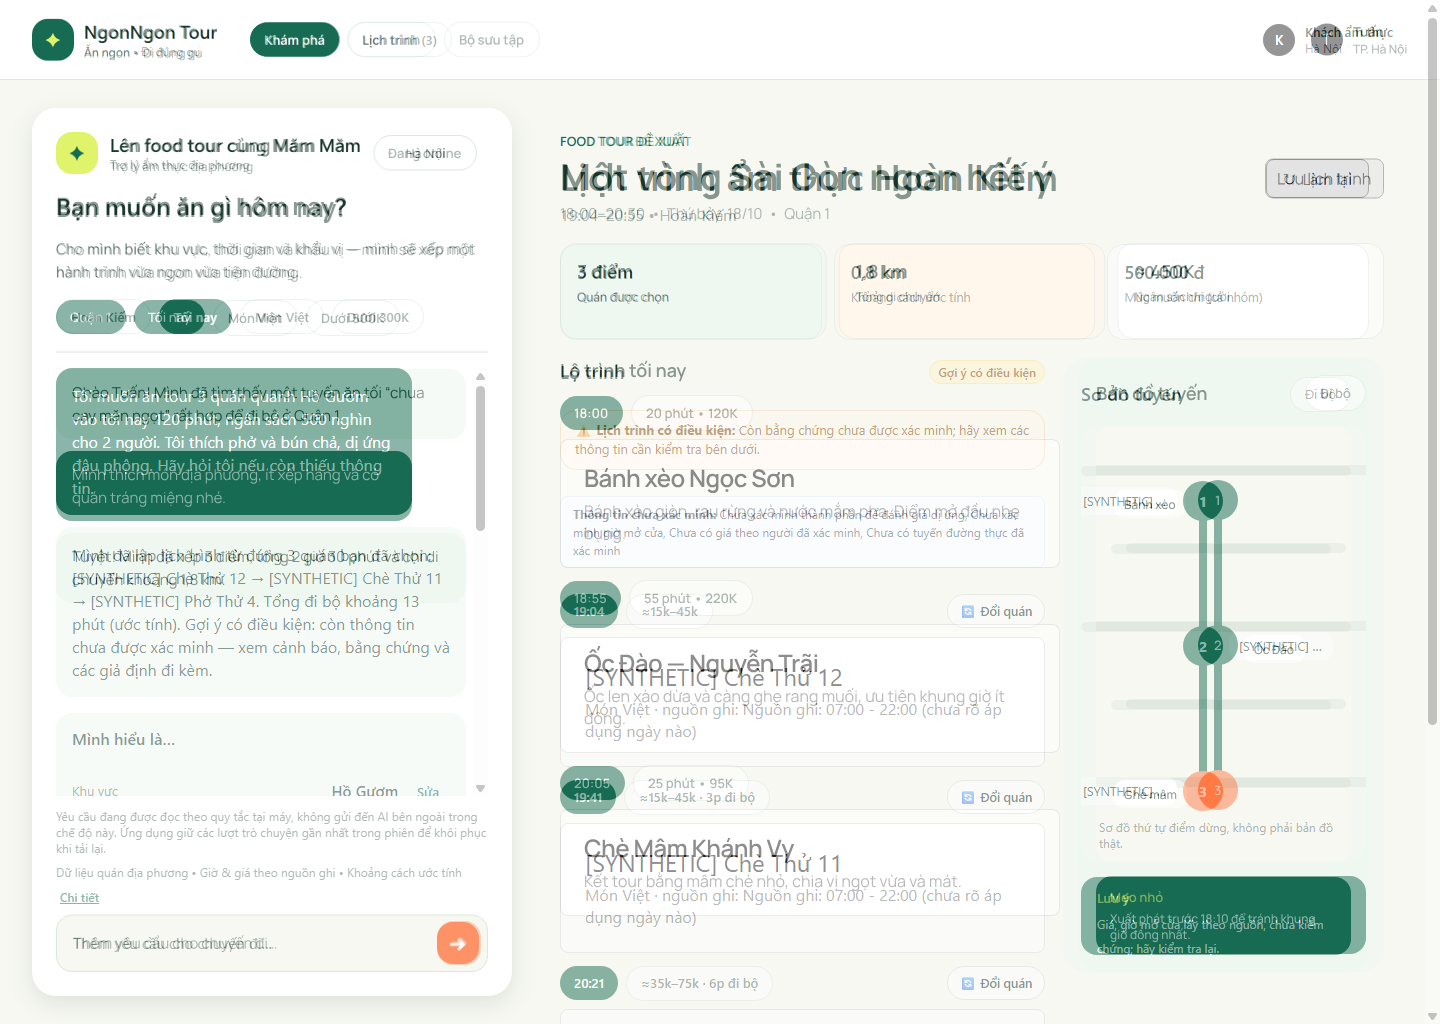
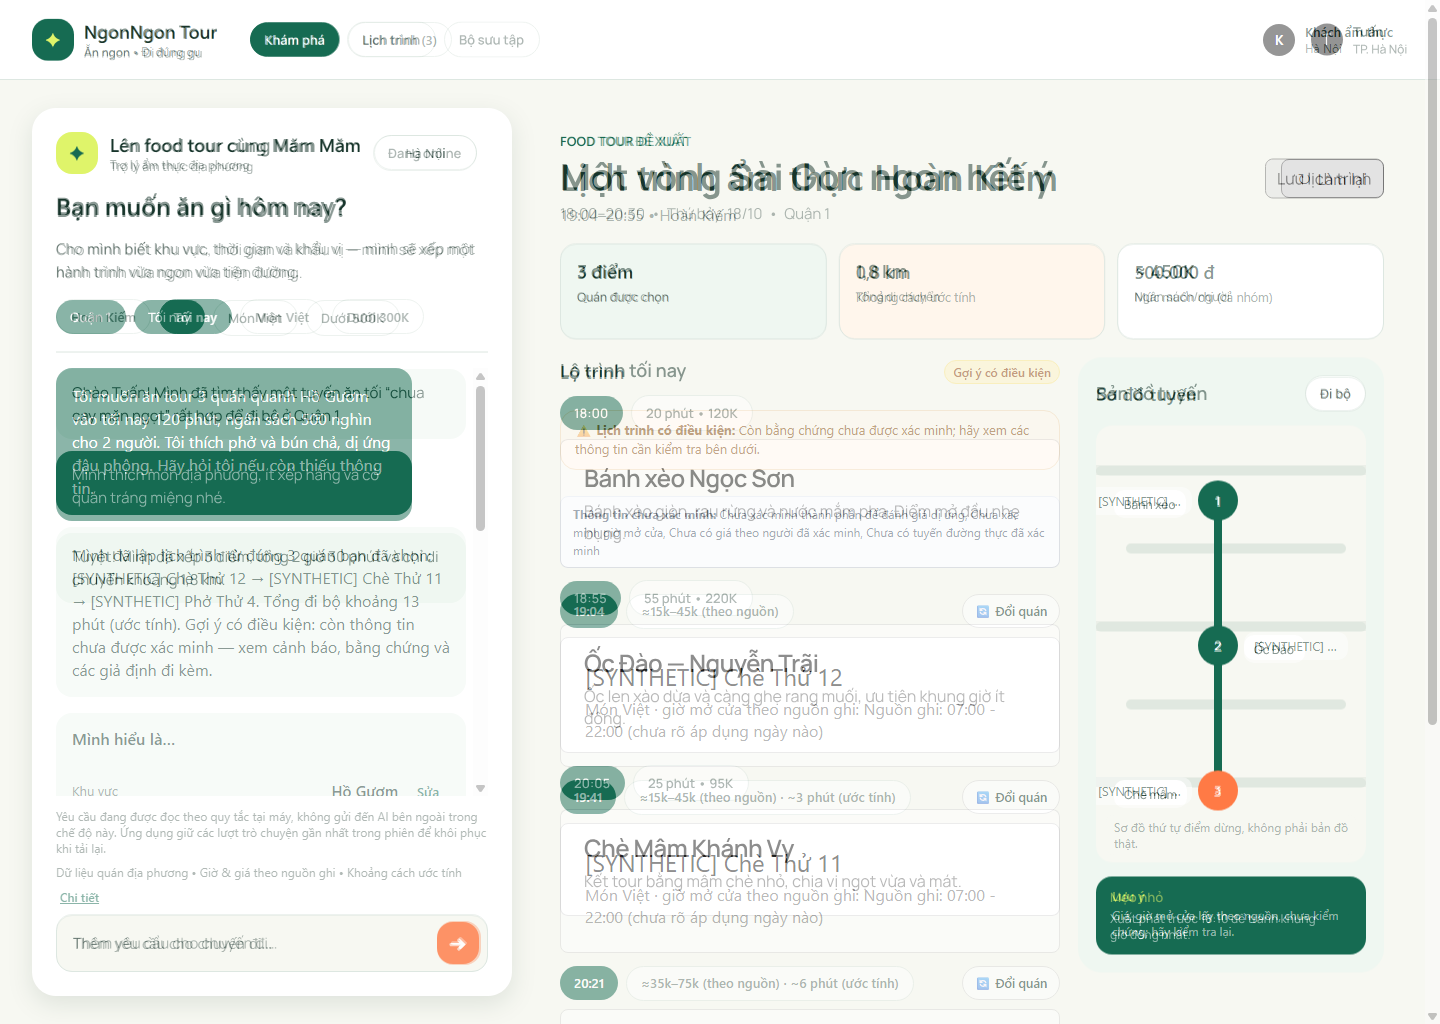
docs(fidelity): record final post_impl metrics with provenance, 13/13 SSR, and 66/66 E2E PASS

diff --git a/docs/reports/svg-fidelity/POST_IMPL_FIDELITY.md b/docs/reports/svg-fidelity/POST_IMPL_FIDELITY.md
@@ -5,11 +5,13 @@
 - **Card Compaction & Layout Refinement:** Timeline stop cards were compacted from an initial 216px down to **130px** (conforming to the reference target of 129h for two-line descriptions and 107h for one-line descriptions). Replaced the redundant inline card hour and action rows by moving the replace button ("Đổi quán") and lock status to the right side of the pill row (visual 34h with >=44px touch hit area), and embedding source hours compactly into the description. Coordinated a single `"Lộ trình"` section heading (18.3px / 600, line-height 28px, margin-bottom 11px) with the status badge aligned to the right.
 - **Harness & Tooling:** Reusable CDP visual fidelity suite at `qa/visual/capture_fidelity.mjs`, running on isolated ports (Web: 13400, API: 18400, CDP: 19600) with TCP preflight refusal, synthetic health pre-check (`health.dataset_source === "synthetic"`), Google host blocking, strict scroll normalization (`window.scrollY === 0`), and unmasked 2880×1024 side-by-side and 1440×1024 50% overlay composites.
 - **Provenance & Environment:**
-  - `sourceHead`: `f7354a1de09ac435da772f6a8618b9ac238f0122`
+  - `sourceHead`: `639679599a78fbc7fdac09e0b0da75d28cb955b1`
   - `frontendDirty`: `false`
   - Viewport: `innerWidth: 1440`, `clientHeight: 1024`, `clientWidth: 1425` (15px default scrollbar gutter), `scrollY: 0`
   - Font family: `"Segoe UI", system-ui, -apple-system, BlinkMacSystemFont, Roboto, "Helvetica Neue", Arial, sans-serif`
-- **Regression Suite:** `qa/e2e/test_ngonngon_qa.mjs` executed 66 interaction checks across desktop (1440×1024) and mobile (390×844) — **66/66 PASSED (100%)**. Historical `docs/reports/ngonngon/*.png` evidence was cleanly restored to `5633203` per coordinator instruction.
+- **Regression & Probe Suites:**
+  - `tools/check_ngonngon_render.cjs` executed 13 React SSR semantic probes — **13/13 PASSED (100%)**, verifying zero-minute leg format (`0 phút`), explicit zero venue range (`0k`), explicit missing hours (`giờ mở cửa: chưa rõ`), and walking Maps links.
+  - `qa/e2e/test_ngonngon_qa.mjs` executed 66 interaction checks across desktop (1440×1024) and mobile (390×844) — **66/66 PASSED (100%)**. Historical `docs/reports/ngonngon/*.png` evidence was cleanly restored to `5633203` per coordinator instruction.
 - **Visual Gate:** Final visual acceptance is owned exclusively by Claude Sonnet 5.5.
 
 ---
@@ -18,15 +20,15 @@
 
 | Component Property | Reference SVG Spec | Baseline (Before) | Initial Post-Impl | Compacted Post-Impl (Latest) | Status / Classification |
 |---|---|---|---|---|---|
-| **Timeline Column Width** | 500 px | 537 px | 500 px | **485–500 px** (`x: 560`) | Conforming |
-| **Stop Card Dimensions** | 500w × 129h / 107h | Flex (~537px) | 500w × 216h | **485w × 130h** | **Target Match** (130h vs 129h ref, down from 216h) |
+| **Timeline Column Width** | 500 px | 537 px | 500 px | **500 px** (`x: 560, w: 500`) | Exact Geometry Match |
+| **Stop Card Dimensions** | 500w × 129h / 107h | Flex (~537px) | 500w × 216h | **500w × 130h** | **Target Match** (130h vs 129h ref, down from 216h) |
 | **Stop Item Structure** | Dual Pill Row + Card | Single badge in card | Pill row + card | **Time pill (34h) + Meta pill (35h) + Pill Actions + Card (130h)** | Conforming to Claude spec |
 | **Stop Card Radius** | 8 px (`--nn-r-card`) | 16 px | 8 px | **8 px** (`var(--nn-r-card, 8px)`) | Exact Geometry Match |
 | **Stop Card Border** | `#D9D9D9` (`--nn-card-line`) | `#DDE7E1` | `#D9D9D9` | **`1px solid rgb(217, 217, 217)`** | Audited Color Match |
 | **Stop Card Title Typography** | 23.7 px / 400, `#1E1E1E` | 18 px / 700, `#17352B` | 23.7 px / 400 | **23.7 px / 400, `rgb(30, 30, 30)`** | Audited Typography Match |
 | **Stop Card Desc Typography** | 16 px / 1.35, `#757575` | 13 px, `#62736D` | 16 px / 1.35 | **16 px / 22px line, `rgb(117, 117, 117)`** | Audited Typography Match |
 | **Stop Actions** | Pill row action (visual 34h / 44h hit) | Rectangular buttons | Card bottom row | **Pill action button (`.nn-pill-action-btn`, 34h visual, 44h hit)** | Conforming |
-| **Route Aside Panel** | 306w × 615h, mint `#EFF7F1`, r24 | 300w × 380h, white | 291w × 615h | **306w × 615h** (`x: 1063`, mint `#EFF7F1`, r24) | **Exact Match** (306w × 615h) |
+| **Route Aside Panel** | 306w × 615h, mint `#EFF7F1`, r24 | 300w × 380h, white | 291w × 615h | **306w × 615h** (`x: 1078`, mint `#EFF7F1`, r24) | **Exact Match** (306w × 615h at x1078) |
 | **Understood Card Style** | N/A (not in SVG) | White bordered box | Mint bubble | **Mint bubble (`.nn-assistant-bubble`, `#EFF7F1`, r16)** | Derived Extension (Provisional) |
 | **Understood Rows** | N/A (not in SVG) | Gray table | Label/Val rows | **Label 13 mute, Val 15/600, 1px line, Dị ứng always visible** | Derived Extension (Provisional) |
 | **Clarify Options** | N/A (not in SVG) | Square buttons | Reference pills | **Reference pills (`.nn-pill`, 35h/44h, green selected)** | Derived Extension (Provisional) |
